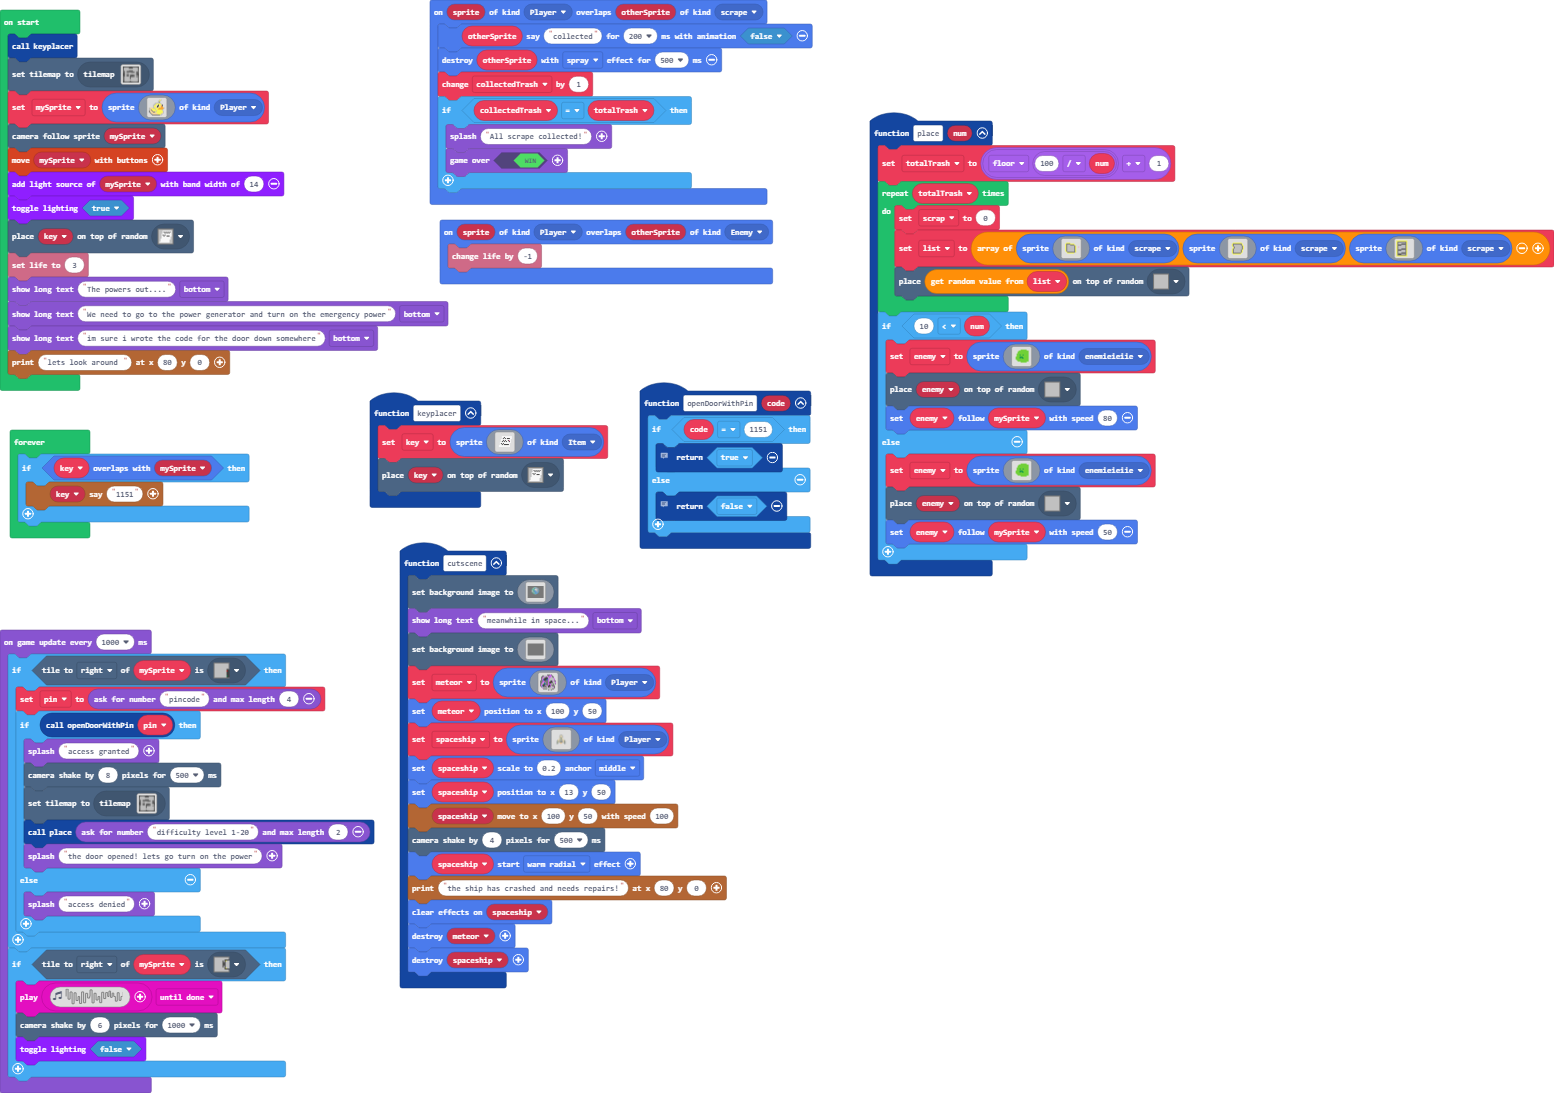
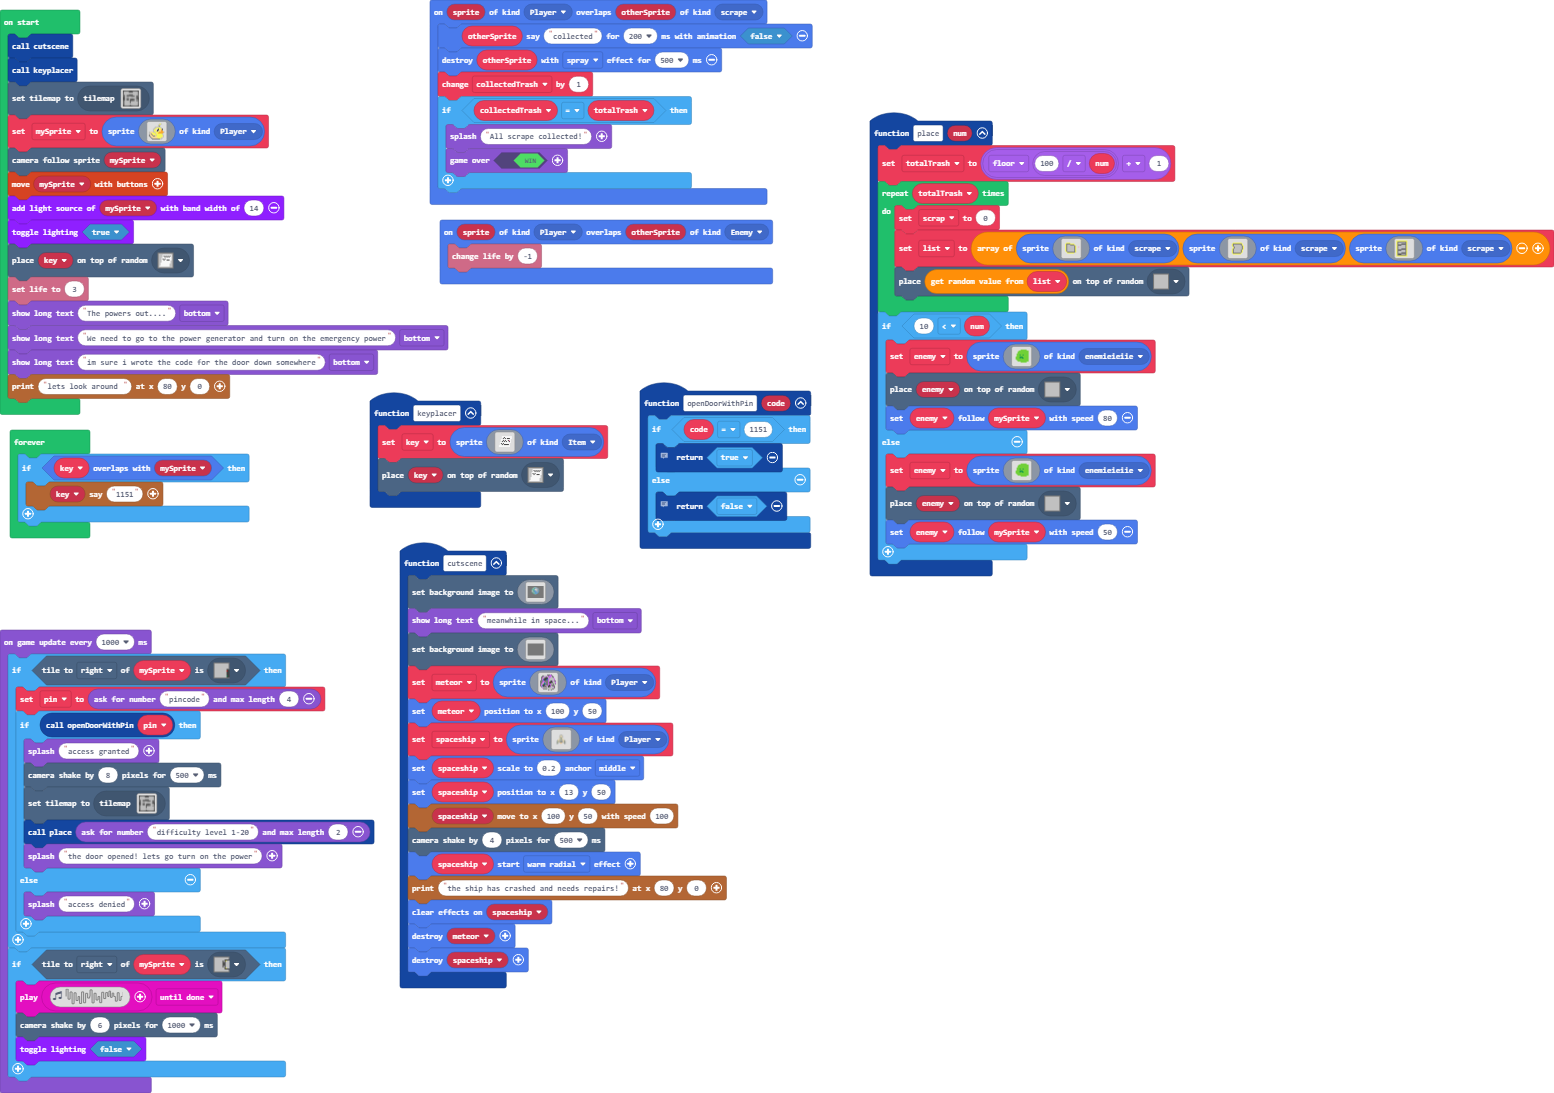
Update pxt.json, main.blocks, main.ts

Changed region(s): [[0.0, 0.0311, 0.3089, 0.4044]]

diff --git a/main.ts b/main.ts
@@ -76,6 +76,7 @@ let scrap = 0
 let totalTrash = 0
 let key: Sprite = null
 let mySprite: Sprite = null
+cutscene()
 keyplacer()
 tiles.setCurrentTilemap(tilemap`map in doors`)
 mySprite = sprites.create(assets.image`duck`, SpriteKind.Player)
